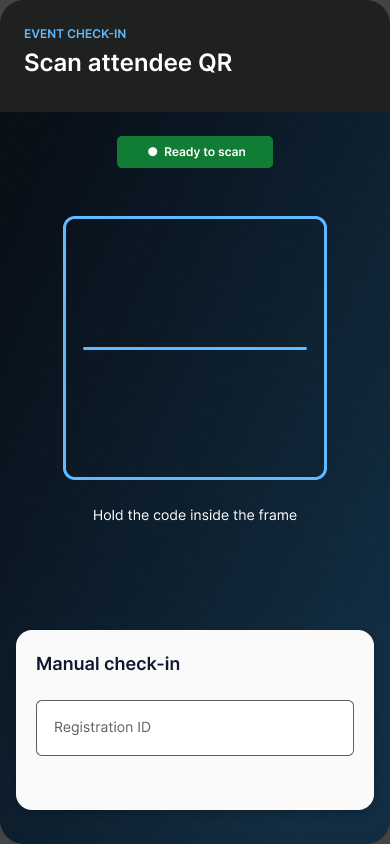
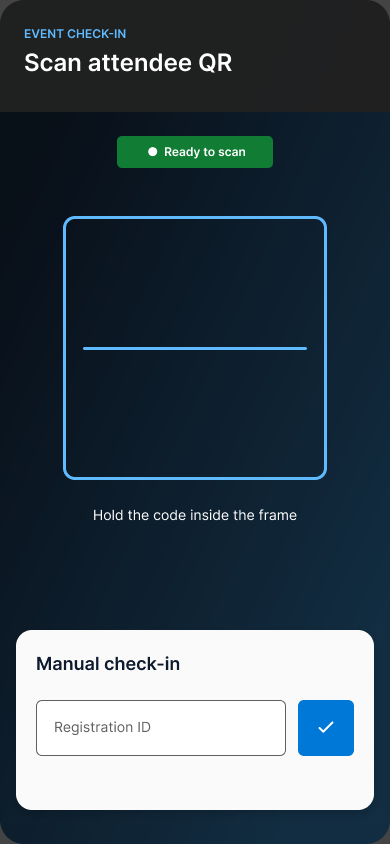
Polish Fluent screens and professionalize README

Changed region(s): [[0.7385, 0.8318, 0.9231, 0.8934]]

diff --git a/README.md b/README.md
@@ -1,86 +1,213 @@
-# Event Check-in for Android
+<div align="center">
 
-A focused Android app for event staff to verify attendees at the door. It scans QR codes with CameraX and ML Kit, sends the registration ID to a configurable HTTPS attendance API, detects duplicate check-ins, and can optionally record successful IDs through Hedera Consensus Service.
+# Event Check-in
 
-The interface uses a Microsoft Fluent-inspired visual language adapted for Android: restrained radii, neutral layered surfaces, accessible borders, system sans-serif typography, and the Microsoft blue accent.
+**A secure, focused Android check-in station for event staff.**
 
-> This is an **organizer/staff check-in tool**. It is not an attendee event browser, ticket marketplace, account system, or registration portal.
+Scan attendee QR codes, validate registrations through an HTTPS API, prevent accidental duplicate scans, and optionally create a tamper-evident attendance trail with Hedera Consensus Service.
 
-## Screenshots
+[![Android CI](https://github.com/mhmdwaelanwr/Events-Registration/actions/workflows/android.yml/badge.svg)](https://github.com/mhmdwaelanwr/Events-Registration/actions/workflows/android.yml)
+[![Kotlin](https://img.shields.io/badge/Kotlin-2.0.21-7F52FF?logo=kotlin&logoColor=white)](https://kotlinlang.org/)
+[![Jetpack Compose](https://img.shields.io/badge/UI-Jetpack%20Compose-4285F4?logo=jetpackcompose&logoColor=white)](https://developer.android.com/compose)
+[![Min SDK 24](https://img.shields.io/badge/minSdk-24-3DDC84?logo=android&logoColor=white)](app/build.gradle.kts)
+[![License: MIT](https://img.shields.io/badge/License-MIT-107C10.svg)](LICENSE)
 
-| Staff access | QR scanner | Confirmed | Settings |
-|:--:|:--:|:--:|:--:|
-| ![Staff access](docs/screenshots/access.png) | ![QR scanner](docs/screenshots/scanner.png) | ![Successful check-in](docs/screenshots/success.png) | ![Settings](docs/screenshots/settings.png) |
+[Design in Figma](https://www.figma.com/design/TjdQ3DeAUm0qbXhBLY1dDS/Events-Registration-%E2%80%94-Mobile-UI-UX?node-id=0-1) · [Security policy](SECURITY.md) · [Hedera reference](docs/HEDERA.md)
 
-The editable UI source is available in the [Figma design](https://www.figma.com/design/TjdQ3DeAUm0qbXhBLY1dDS/Events-Registration-%E2%80%94-Mobile-UI-UX?node-id=0-1).
+</div>
 
-## What it does
+> [!IMPORTANT]
+> This is an **organizer-facing attendance scanner**. It is not an event-discovery app, attendee registration portal, ticket wallet, or payment product.
 
-- Scans attendee QR codes on-device with ML Kit.
-- Supports manual registration-ID entry when a code cannot be scanned.
-- Marks attendance through `POST /attendance/mark`.
-- Shows distinct success, duplicate, connection, and validation states.
-- Debounces repeated scans of the same code.
-- Supports light, dark, and system themes plus optional haptic feedback.
-- Restricts entry to staff using a configured access key.
-- Optionally submits successful registration IDs to a Hedera testnet topic.
+## Product preview
 
-## Tech stack
+| Staff access | QR scanner | Check-in confirmed | Station settings |
+|:---:|:---:|:---:|:---:|
+| <img src="docs/screenshots/access.png" width="220" alt="Staff access screen"> | <img src="docs/screenshots/scanner.png" width="220" alt="QR scanner screen"> | <img src="docs/screenshots/success.png" width="220" alt="Successful check-in screen"> | <img src="docs/screenshots/settings.png" width="220" alt="Station settings screen"> |
 
-- Kotlin and Jetpack Compose
-- MVVM with `StateFlow`
-- CameraX and Google ML Kit barcode scanning
-- Retrofit, OkHttp, Gson, and Kotlin coroutines
-- AndroidX Security encrypted preferences
-- Optional Hedera Java SDK integration
+The interface follows a **Microsoft Fluent-inspired** visual system adapted for Android: Microsoft Blue `#0078D4`, neutral layered surfaces, compact 6–12 dp radii, subtle elevation, clear one-pixel borders, and system sans-serif typography.
 
-## Security notes
+## Why this project exists
 
-The app uses Android's standard certificate and hostname validation, rejects non-HTTPS API base URLs, disables cleartext traffic and Android backups, validates scanned IDs, and does not sign release builds with the debug key.
+Event entrances need a fast tool with one job: confirm whether a registration is valid and record attendance with minimal operator friction. Event Check-in keeps the camera, manual fallback, status feedback, and station settings in a small, predictable workflow designed for staff-operated devices.
 
-Secrets embedded in an APK can always be extracted. For production, keep Hedera operator keys and staff authorization on a trusted backend; the Android client should receive short-lived tokens and call server-side operations. Do not commit `local.properties`.
+## Features
+
+- On-device QR and barcode detection using Google ML Kit.
+- Camera lifecycle management through CameraX.
+- Manual registration-ID entry as a scanning fallback.
+- HTTPS attendance validation via `POST /attendance/mark`.
+- Clear success, duplicate, validation, connection, and failure states.
+- Three-second duplicate-scan debounce.
+- Input trimming, control-character rejection, and length validation.
+- Staff access gate with local encrypted authorization state.
+- System, light, and dark appearance preferences.
+- Optional haptic feedback after check-in results.
+- Optional Hedera testnet topic submission after a successful API response.
+- Fluent-inspired Figma source and matching repository screenshots.
+
+## How it works
+
+```mermaid
+flowchart LR
+    A[QR scan or manual ID] --> B[Local validation]
+    B --> C[HTTPS attendance API]
+    C -->|Success| D[Confirmed state]
+    C -->|Duplicate| E[Already checked in]
+    C -->|Failure| F[Safe error state]
+    D --> G[Optional Hedera submission]
+```
+
+The attendance API remains the source of truth. Hedera submission is optional and only runs when all required Hedera values are configured.
+
+## Architecture
+
+| Layer | Responsibility |
+|---|---|
+| Compose UI | Access gate, scanner, result dialogs, settings, and theme |
+| `AttendanceViewModel` | UI state, validation, scan debounce, and orchestration |
+| Retrofit service | Typed attendance requests and responses |
+| OkHttp | HTTPS transport, timeouts, and platform certificate validation |
+| CameraX + ML Kit | Preview lifecycle and barcode analysis |
+| Settings storage | Dark-mode and haptic preferences |
+| Security storage | Encrypted authorization state and runtime configuration |
+| Hedera adapter | Optional testnet topic-message submission |
+
+## Technology
+
+- Kotlin 2.0
+- Jetpack Compose with Material 3 foundations
+- Android Architecture Components and `StateFlow`
+- Kotlin coroutines
+- CameraX
+- Google ML Kit Barcode Scanning
+- Retrofit, OkHttp, and Gson
+- AndroidX Security Crypto
+- Hedera Java SDK and gRPC OkHttp transport
+- Gradle version catalog and GitHub Actions
+
+## Requirements
+
+- Android Studio with JDK 17
+- Android SDK 36
+- Android 7.0 / API 24 or newer
+- An HTTPS attendance API
+- A physical camera for end-to-end scanning tests
+- Optional Hedera testnet account and topic
 
 ## Configuration
 
-Create `local.properties` in the project root:
+Create a local `local.properties` file in the repository root:
 
 ```properties
 sdk.dir=/path/to/Android/sdk
+
 BASE_URL=https://api.example.com/
 APP_ACCESS_KEY=development-only-key
 REMOTE_CONFIG_URL=https://example.com/event-access-key.txt
 
-# Optional Hedera testnet integration
+# Optional — leave all three blank to disable Hedera submission
 HEDERA_ACCOUNT_ID=
 HEDERA_PRIVATE_KEY=
 HEDERA_TOPIC_ID=
 ```
 
-The attendance endpoint accepts `{ "registrationId": "MLSA-2026-01842" }` and returns `{ "success": true, "message": "Attendance marked successfully" }`. Use HTTP `409` or a duplicate/already-registered message for an attendee who has already checked in.
+Never commit this file or real credentials.
 
-## Build and test
+### Attendance API contract
 
-Requirements: Android Studio with JDK 17+, Android SDK 36, and a device/emulator running Android 7.0 (API 24) or newer.
+Request:
+
+```http
+POST /attendance/mark
+Content-Type: application/json
+```
+
+```json
+{
+  "registrationId": "MLSA-2026-01842"
+}
+```
+
+Successful response:
+
+```json
+{
+  "success": true,
+  "message": "Attendance marked successfully"
+}
+```
+
+Return HTTP `409 Conflict`, or a clear duplicate message, when the attendee has already checked in.
+
+## Build and verify
 
 ```bash
-./gradlew test
-./gradlew lint
+./gradlew testDebugUnitTest
+./gradlew lintDebug
 ./gradlew assembleDebug
 ```
 
-For a production release, configure your own release signing key; the repository intentionally does not fall back to the debug certificate.
+The same verification runs in [Android CI](https://github.com/mhmdwaelanwr/Events-Registration/actions/workflows/android.yml) on pushes to `master` or `main`, and on pull requests.
 
-## Project structure
+A production release must use a dedicated release signing configuration. The repository intentionally does not sign release builds with the debug certificate.
 
-- `MainActivity.kt` — Compose navigation, access gate, scanner, and result UI
-- `AttendanceViewModel.kt` — state, validation, debouncing, and check-in orchestration
-- `network/` — HTTPS API client and attendance endpoint
-- `Hedera.kt` — optional Consensus Service submission
-- `data/SettingsPreferences.kt` — appearance and haptic preferences
-- `docs/screenshots/` — UI screenshots exported from the Figma source
+## Security model
 
-## Contributing and security
+The current client:
 
-See [CONTRIBUTING.md](CONTRIBUTING.md) before opening a pull request. Report vulnerabilities privately as described in [SECURITY.md](SECURITY.md).
+- uses Android's standard certificate and hostname verification;
+- rejects non-HTTPS base URLs;
+- disables cleartext traffic and Android backups;
+- stores authorization state with encrypted preferences;
+- validates registration identifiers before sending them;
+- avoids exposing raw server errors to operators.
 
-Licensed under the [MIT License](LICENSE).
+> [!WARNING]
+> An APK cannot safely protect long-lived secrets. For a production deployment, move staff authorization and Hedera operator signing to a trusted backend. Give the Android app short-lived credentials and never publish a Hedera private key or permanent master access key inside a release APK.
+
+Report vulnerabilities privately using [SECURITY.md](SECURITY.md).
+
+## Project layout
+
+```text
+app/src/main/java/anwar/mlsa/eventsregistration/
+├── MainActivity.kt                 # Compose app, scanner, access, and result UI
+├── SecurityManager.kt              # Encrypted authorization and configuration
+├── Hedera.kt                       # Optional HCS adapter
+├── data/
+│   ├── AttendanceModels.kt
+│   └── SettingsPreferences.kt
+├── network/
+│   ├── AttendanceService.kt
+│   └── RetrofitClient.kt
+├── ui/
+│   ├── SettingsScreen.kt
+│   └── theme/
+└── viewmodel/
+    └── AttendanceViewModel.kt
+```
+
+Additional documentation and screenshots live under `docs/`.
+
+## Known deployment boundary
+
+The repository contains a working Android client architecture, but real event deployment still requires:
+
+- a compatible production attendance API;
+- server-side authentication and authorization;
+- release signing and secure distribution;
+- testing with the target Android camera hardware;
+- a privacy and data-retention policy for real attendee identifiers.
+
+## Contributing
+
+Read [CONTRIBUTING.md](CONTRIBUTING.md), create a focused branch, include tests or verification notes, and open a pull request. Keep credentials, attendee data, generated APKs, and local environment files out of commits.
+
+## License
+
+Released under the [MIT License](LICENSE).
+
+<div align="center">
+Built and maintained by <a href="https://github.com/mhmdwaelanwr">Mohamed Anwar</a>.
+</div>
